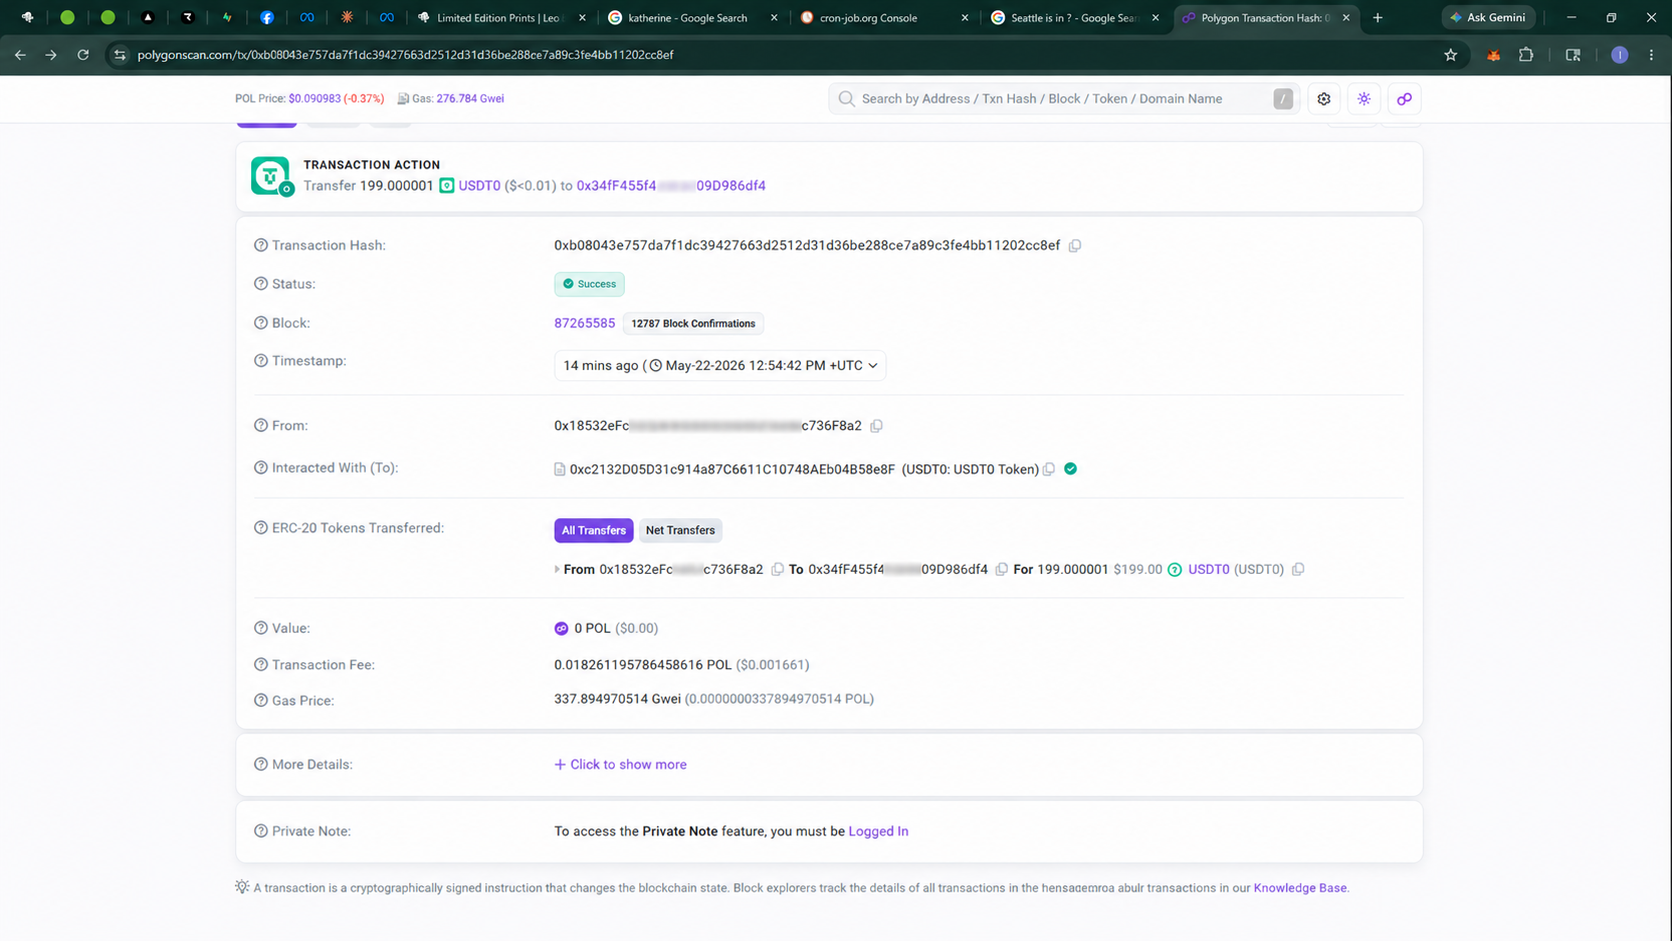
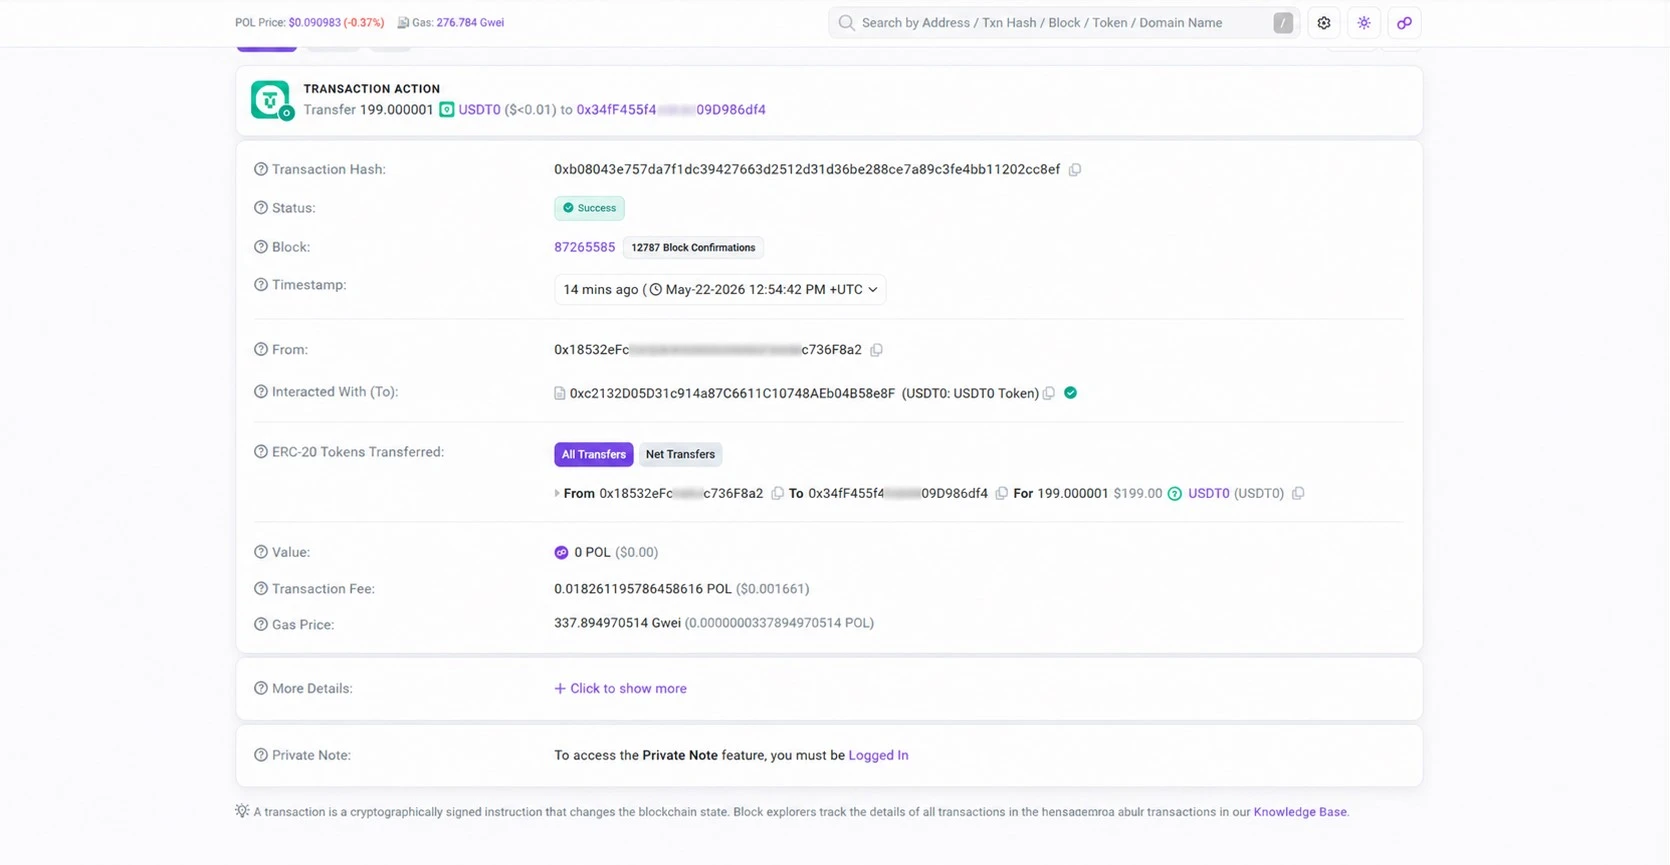
lifecycle + schema: swipe gesture on mobile carousel, tighter schema cluster gap
Schema: standalone cluster shifted from x=1700 to x=1550. Gap narrows from 250px
to ~100px. Bounding box width drops from ~1950 to ~1800. Visible separation
between subsystems still clear, fitView centring pulls the order hub closer to
the centre of narrow viewports.

Lifecycle carousel: image viewport is now a motion.div with horizontal drag.
- drag='x' + dragConstraints {left:0,right:0} keeps it in place but captures the gesture
- dragElastic 0.18 gives tactile pull during swipe
- dragMomentum false stops accidental flick-throughs
- Threshold: 50px offset OR 350px/s velocity triggers a swipe
- Swipe left = next step, swipe right = previous step. Wraps via modulo so
  swiping past 09 loops to 01, matching autoplay behaviour.
- Inner image (Image + AnimatePresence) gets pointer-events-none so the drag
  is captured by the parent without the image fighting back

UX polish:
- Mobile-only 'Swipe to navigate' hint above the dot indicators
- Dots bumped from h-1 to h-1.5 and active width from w-6 to w-7
- touch-pan-y on the drag wrapper lets vertical page scroll pass through

diff --git a/app/components/order-lifecycle-story.tsx b/app/components/order-lifecycle-story.tsx
@@ -204,7 +204,30 @@ export default function OrderLifecycleStory() {
 								data-paused={!playing}
 								style={{ animationDuration: `${AUTO_MS}ms` }}
 							/>
-							<div className="relative aspect-[16/9] w-full bg-zinc-100">
+							<motion.div
+								className="relative aspect-[16/9] w-full touch-pan-y bg-zinc-100 select-none"
+								drag="x"
+								dragConstraints={{ left: 0, right: 0 }}
+								dragElastic={0.18}
+								dragMomentum={false}
+								onDragEnd={(_, info) => {
+									const swipeThreshold = 50;
+									const velocityThreshold = 350;
+									const distance = info.offset.x;
+									const velocity = info.velocity.x;
+									const isSwipe =
+										Math.abs(distance) > swipeThreshold ||
+										Math.abs(velocity) > velocityThreshold;
+									if (!isSwipe) return;
+									if (distance < 0) {
+										// swipe left, next step
+										jumpTo((active + 1) % STEPS.length);
+									} else {
+										// swipe right, previous step
+										jumpTo((active - 1 + STEPS.length) % STEPS.length);
+									}
+								}}
+							>
 								<AnimatePresence mode="wait">
 									<motion.div
 										key={step.image}
@@ -215,7 +238,7 @@ export default function OrderLifecycleStory() {
 											duration: 0.4,
 											ease: [0.22, 1, 0.36, 1],
 										}}
-										className="absolute inset-0"
+										className="absolute inset-0 pointer-events-none"
 									>
 										<Image
 											src={step.image}
@@ -228,7 +251,7 @@ export default function OrderLifecycleStory() {
 										/>
 									</motion.div>
 								</AnimatePresence>
-							</div>
+							</motion.div>
 						</div>
 
 						{/* caption, separate block */}
@@ -256,21 +279,26 @@ export default function OrderLifecycleStory() {
 							</AnimatePresence>
 						</div>
 
-						{/* mobile dots */}
-						<div className="mt-4 flex justify-center gap-1.5 md:hidden">
-							{STEPS.map((s, i) => (
-								<button
-									key={s.num}
-									type="button"
-									aria-label={`Jump to step ${s.num}`}
-									onClick={() => jumpTo(i)}
-									className={`h-1 rounded-full transition-all ${
-										active === i
-											? "w-6 bg-zinc-100"
-											: "w-1.5 bg-zinc-700 hover:bg-zinc-600"
-									}`}
-								/>
-							))}
+						{/* mobile hint + dots */}
+						<div className="mt-4 flex flex-col items-center gap-3 md:hidden">
+							<p className="font-mono text-[0.6rem] uppercase tracking-[0.18em] text-zinc-500">
+								Swipe to navigate
+							</p>
+							<div className="flex justify-center gap-1.5">
+								{STEPS.map((s, i) => (
+									<button
+										key={s.num}
+										type="button"
+										aria-label={`Jump to step ${s.num}`}
+										onClick={() => jumpTo(i)}
+										className={`h-1.5 rounded-full transition-all ${
+											active === i
+												? "w-7 bg-zinc-100"
+												: "w-1.5 bg-zinc-700 hover:bg-zinc-600"
+										}`}
+									/>
+								))}
+							</div>
 						</div>
 					</div>
 				</div>

diff --git a/app/components/leohydra-schema.tsx b/app/components/leohydra-schema.tsx
@@ -192,14 +192,13 @@ const tables: Array<{ id: string; position: { x: number; y: number }; data: Tabl
 	},
 
 	// --- Standalone cluster (no FK into order graph) ---
-	// Placed to the right with a ~250px gap from the order subsystem
-	// (orders ends near x=1450; leads starts at x=1700). The gap is still the
-	// strongest visual cue that these tables are independent, but tight enough
-	// that fitView's centering puts the order hub near the visible centre on
-	// narrow viewports, rather than centring on an empty horizontal void.
+	// Placed to the right with a ~100px gap from the order subsystem
+	// (orders ends near x=1450; leads starts at x=1550). Still a clear visual
+	// separator for "these are independent subsystems", but tight enough that
+	// fitView centres the order hub close to the viewport centre on phones.
 	{
 		id: "leads",
-		position: { x: 1700, y: 0 },
+		position: { x: 1550, y: 0 },
 		data: {
 			name: "leads",
 			columns: [
@@ -219,7 +218,7 @@ const tables: Array<{ id: string; position: { x: number; y: number }; data: Tabl
 	},
 	{
 		id: "newsletter_subscribers",
-		position: { x: 1700, y: 500 },
+		position: { x: 1550, y: 500 },
 		data: {
 			name: "newsletter_subscribers",
 			columns: [
@@ -232,7 +231,7 @@ const tables: Array<{ id: string; position: { x: number; y: number }; data: Tabl
 	},
 	{
 		id: "rate_limit_buckets",
-		position: { x: 1700, y: 720 },
+		position: { x: 1550, y: 720 },
 		data: {
 			name: "rate_limit_buckets",
 			columns: [
@@ -244,7 +243,7 @@ const tables: Array<{ id: string; position: { x: number; y: number }; data: Tabl
 	},
 	{
 		id: "payment_micro_reserved",
-		position: { x: 1700, y: 880 },
+		position: { x: 1550, y: 880 },
 		data: {
 			name: "payment_micro_reserved",
 			columns: [
